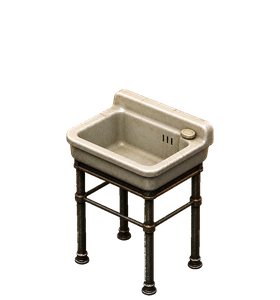
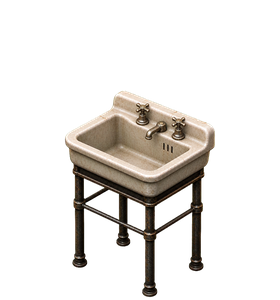
Remaster detective office props for 1940s period accuracy.
Replace anachronistic ashtray filters, packing-peanut trash, red-string case board, and tapless washbasin with Image Generator remasters.

Changed region(s): [[0.2286, 0.3, 0.7714, 0.99]]

diff --git a/ArtSource/Processing/process_office_1940s_period_fix_v01.py b/ArtSource/Processing/process_office_1940s_period_fix_v01.py
@@ -1,0 +1,162 @@
+"""Key 1940s period-correct office prop remasters into runtime sprites.
+
+Fixes anachronisms found in the detective office prop pass:
+  - desk ashtray: unfiltered cigarette stubs (no cork/filter tips)
+  - waiting ashtray: derived cool recolor of the desk ashtray
+  - wastebasket: crumpled paper only (no packing peanuts)
+  - case board: pinned photos/notes without red-string web
+  - washbasin: period dual cross-handle taps on the backsplash
+
+Usage:
+    python3 ArtSource/Processing/process_office_1940s_period_fix_v01.py
+"""
+
+from __future__ import annotations
+
+from pathlib import Path
+
+import numpy as np
+from PIL import Image
+
+ROOT = Path(__file__).resolve().parents[2]
+RUNTIME = ROOT / "RainShadow Shared/Resources/Art/Props/Office"
+GEN = ROOT / "ArtSource/Generated/Office/Props"
+DESK_ITEMS = GEN / "DeskItems"
+ASSETS = Path.home() / ".cursor/projects/Users-laurensvanoorschot-Desktop-RainShadow/assets"
+
+# (asset master, retained chroma name, runtime name, canvas, target content h)
+JOBS = (
+    (
+        "office_desk_ashtray_1940s_chroma_v05.png",
+        "office_desk_ashtray_1940s_chroma_v05.png",
+        "office_desk_ashtray.png",
+        (115, 85),
+        73,
+        DESK_ITEMS,
+    ),
+    (
+        "office_wastebasket_1940s_chroma_v03.png",
+        "office_wastebasket_1940s_chroma_v03.png",
+        "office_wastebasket.png",
+        (256, 256),
+        None,
+        GEN,
+    ),
+    (
+        "office_case_board_1940s_chroma_v02.png",
+        "office_case_board_1940s_chroma_v02.png",
+        "office_case_board.png",
+        (320, 280),
+        None,
+        GEN,
+    ),
+    (
+        "office_personal_washbasin_1940s_chroma_v02.png",
+        "office_personal_washbasin_1940s_chroma_v02.png",
+        "office_personal_washbasin.png",
+        (280, 300),
+        210,
+        GEN,
+    ),
+)
+
+
+def key_chroma(path: Path, spill: float = 1.0) -> np.ndarray:
+    rgb = np.asarray(Image.open(path).convert("RGB")).astype(np.float32)
+    r, g, b = rgb[..., 0], rgb[..., 1], rgb[..., 2]
+    greenness = g - np.maximum(r, b)
+    alpha = np.clip(1.0 - (greenness - 8.0) / 46.0, 0.0, 1.0)
+    ceiling = np.maximum(r, b) + 6.0
+    over = np.maximum(g - ceiling, 0.0) * spill
+    out = rgb.copy()
+    out[..., 1] = g - over
+    return np.dstack([out, alpha * 255.0])
+
+
+def trim(rgba: np.ndarray, pad: int = 4, thresh: float = 24.0) -> np.ndarray:
+    ys, xs = np.where(rgba[..., 3] > thresh)
+    y0, y1 = max(ys.min() - pad, 0), min(ys.max() + 1 + pad, rgba.shape[0])
+    x0, x1 = max(xs.min() - pad, 0), min(xs.max() + 1 + pad, rgba.shape[1])
+    return rgba[y0:y1, x0:x1]
+
+
+def opaque_content_height(rgba: np.ndarray, thresh: float = 40.0) -> int:
+    ys, _ = np.where(rgba[..., 3] > thresh)
+    if len(ys) == 0:
+        return 0
+    return int(ys.max() - ys.min() + 1)
+
+
+def fit_into_canvas(
+    rgba: np.ndarray,
+    canvas: tuple[int, int],
+    target_content_h: int | None = None,
+) -> Image.Image:
+    cw, ch = canvas
+    image = Image.fromarray(np.clip(rgba, 0, 255).astype(np.uint8), "RGBA")
+    if image.width == 0 or image.height == 0:
+        return Image.new("RGBA", canvas, (0, 0, 0, 0))
+    src_h = opaque_content_height(rgba) or image.height
+    if target_content_h and src_h > 0:
+        scale = (target_content_h / src_h) * 0.98
+        scale = min(scale, (cw * 0.94) / image.width, (ch * 0.94) / image.height)
+    else:
+        scale = min(cw / image.width, ch / image.height) * 0.94
+    nw = max(1, int(round(image.width * scale)))
+    nh = max(1, int(round(image.height * scale)))
+    resized = image.resize((nw, nh), Image.Resampling.LANCZOS)
+    out = Image.new("RGBA", canvas, (0, 0, 0, 0))
+    x = (cw - nw) // 2
+    y = max(0, min(ch - nh, ch - nh - 2))
+    out.alpha_composite(resized, (x, y))
+    return out
+
+
+def derive_waiting_ashtray(desk: Image.Image) -> Image.Image:
+    arr = np.array(desk.convert("RGBA"), dtype=np.float32)
+    arr[:, :, 0] = np.clip(arr[:, :, 0] * 0.92, 0, 255)
+    arr[:, :, 2] = np.clip(arr[:, :, 2] * 1.08, 0, 255)
+    return Image.fromarray(arr.astype(np.uint8), "RGBA")
+
+
+def main() -> None:
+    RUNTIME.mkdir(parents=True, exist_ok=True)
+    GEN.mkdir(parents=True, exist_ok=True)
+    DESK_ITEMS.mkdir(parents=True, exist_ok=True)
+
+    desk_runtime: Image.Image | None = None
+    for asset_name, chroma_name, runtime_name, canvas, target_h, retain_dir in JOBS:
+        src = ASSETS / asset_name
+        if not src.exists():
+            raise FileNotFoundError(src)
+        retain_dir.mkdir(parents=True, exist_ok=True)
+        chroma_dest = retain_dir / chroma_name
+        chroma_dest.write_bytes(src.read_bytes())
+
+        rgba = trim(key_chroma(chroma_dest))
+        rgba_master = Image.fromarray(np.clip(rgba, 0, 255).astype(np.uint8), "RGBA")
+        rgba_name = runtime_name.replace(".png", "_1940s_rgba_v01.png")
+        if runtime_name == "office_desk_ashtray.png":
+            rgba_master.save(DESK_ITEMS / "office_desk_ashtray_rgba_v03.png")
+        else:
+            rgba_master.save(retain_dir / rgba_name)
+
+        out = fit_into_canvas(rgba, canvas, target_content_h=target_h)
+        out.save(RUNTIME / runtime_name)
+        a = np.asarray(out)[:, :, 3]
+        print(
+            f"wrote {runtime_name:36s} size={out.size} "
+            f"opaque={(a > 20).sum():,} content_h={opaque_content_height(np.asarray(out))}"
+        )
+        if runtime_name == "office_desk_ashtray.png":
+            desk_runtime = out
+
+    assert desk_runtime is not None
+    waiting = derive_waiting_ashtray(desk_runtime)
+    waiting.save(RUNTIME / "office_waiting_ashtray.png")
+    waiting.save(GEN / "office_waiting_ashtray_rgba_v02.png")
+    print(f"wrote {'office_waiting_ashtray.png':36s} size={waiting.size} (derived)")
+
+
+if __name__ == "__main__":
+    main()

diff --git a/ArtSource/Prompts/GenerationLog.md b/ArtSource/Prompts/GenerationLog.md
@@ -48,6 +48,7 @@ All prompts use the supplied Baldur's Gate-era screenshots as style-analysis ref
 | Wastebasket V2 solo | Cursor Image Generator `office_wastebasket_solo_chroma_v02.png` | `Generated/Office/Props/office_wastebasket_solo_chroma_v02.png` plus RGBA V2 | `Props/Office/office_wastebasket.png` | Dented painted metal 1940s office bin (noir period read); clutter processor prefers solo over sheet cell. |
 | Worn rug V2 | Cursor Image Generator `office_worn_rug_chroma_v02.png` | `Generated/Office/Props/office_worn_rug_chroma_v02.png` plus RGBA V2 master | `Props/Office/office_worn_rug.png`, 1024×768 | Larger low-contrast client meeting pad; tobacco/oxblood; no baked contact shadow (`Prompts/office_worn_rug_v02.md`). |
 | 3-zone office fill V1 | Cursor Image Generator sheets A/B/C + light overlays | `Generated/Office/Props/office_zone_fill_sheet_{a,b,c}_chroma_v01.png`, `office_zone_light_overlays_v01.png`, per-prop RGBA | Matching `Props/Office/office_*.png` via `process_office_zone_fill_v01.py` | Image Generator masters locked to furniture/clutter style; supersedes earlier Pillow placeholders (`Prompts/office_zone_fill_v01.md`). |
+| 1940s period-fix V1 | Cursor Image Generator ashtray/wastebasket/case board/washbasin remasters | `Generated/Office/Props/*_1940s_chroma_v0*.png` plus DeskItems ashtray V3 RGBA | `office_desk_ashtray`, `office_waiting_ashtray`, `office_wastebasket`, `office_case_board`, `office_personal_washbasin` | Unfiltered stubs; paper-only bin; no red-string board; washbasin dual taps (`Prompts/office_1940s_period_fix_v01.md`; `process_office_1940s_period_fix_v01.py`). |
 | Personal corner + internal door V1 | Cursor Image Generator solo chroma plates | `Generated/Office/Props/office_personal_*_solo_chroma_v0*.png`, `office_internal_door_leaf_solo_chroma_v02.png` plus RGBA masters | `Props/Office/office_personal_{sideboard,fan,washbasin,glass}.png`, `office_internal_door_leaf.png`; suite plate `office_suite_architecture.png` | Pass B finals for partitioned suite; door glass blanked in process; agency lettering is code (`Prompts/office_personal_corner_v01.md`). |
 | Partition plate V1 (authored + mask) | Shell-matched continuous plate via `process_office_partition_plate_v01.py` (IG master optional) | `Generated/Office/Props/office_partition_wall.png`, `office_partition_cutaway_mask.png`, `office_partition_wall_cutaway.png`, `office_partition_opening.json` | Same under `Props/Office/`; leaf from opening metrics | LEGACY — superseded by suite plate; kept for `RAINSHADOW_LEGACY_PARTITION=1` (`Prompts/office_partition_plate_v01.md`). |
 | Suite plate Stage 1 (architecture) | Cursor Image Generator `office_suite_plate_v01_gen.png` | `Generated/Office/suite_plate_v01/office_suite_plate_v01_gen.png` + registration lock | `Areas/DetectiveOffice/office_suite_plate.png`, 4096×2304 | One empty architecture plate: shell + partition + painted cutaway; no furniture/leaves (`Prompts/office_suite_plate_v01.md`; `process_office_suite_plate_v01.py`). |

diff --git a/ArtSource/Prompts/office_1940s_period_fix_v01.md b/ArtSource/Prompts/office_1940s_period_fix_v01.md
@@ -1,0 +1,49 @@
+# Office 1940s period-fix props V1
+
+- Generated: 2026-07-29
+- Mode: built-in Image Generator (edit/reference) + Python normalize
+- Script: `ArtSource/Processing/process_office_1940s_period_fix_v01.py`
+
+## Why
+
+Runtime office props were period-checked against a 1940s private-eye suite.
+Four anachronisms were remastered:
+
+| Prop | Problem | Fix |
+|---|---|---|
+| `office_desk_ashtray` | Orange cork/filter-tip butts (mid-1950s+) | Unfiltered crushed white paper stubs |
+| `office_waiting_ashtray` | Same (derived from desk) | Re-derived cool recolor of new desk ashtray |
+| `office_wastebasket` | Styrofoam packing-peanut-like junk (1960s+) | Crumpled paper + torn envelope only |
+| `office_case_board` | Red-string conspiracy web (modern TV trope) | Pinned photos/notes only, no string |
+| `office_personal_washbasin` | No faucet/taps | Dual cross-handle aged brass taps + spout |
+
+## Retained masters
+
+- `ArtSource/Generated/Office/Props/DeskItems/office_desk_ashtray_1940s_chroma_v05.png`
+- `ArtSource/Generated/Office/Props/office_wastebasket_1940s_chroma_v03.png`
+- `ArtSource/Generated/Office/Props/office_case_board_1940s_chroma_v02.png`
+- `ArtSource/Generated/Office/Props/office_personal_washbasin_1940s_chroma_v02.png`
+
+## Runtime canvases
+
+| ID | Canvas | Content height |
+|---|---:|---:|
+| `office_desk_ashtray` | 115×85 | 73 |
+| `office_waiting_ashtray` | 115×85 | derived |
+| `office_wastebasket` | 256×256 | native fit |
+| `office_case_board` | 320×280 | native fit |
+| `office_personal_washbasin` | 280×300 | 210 |
+
+## Generation notes
+
+Prompts locked to existing runtime props as style references, flat `#00FF00`
+chroma, late-1990s pre-rendered isometric CRPG materials, and explicit 1940s
+material constraints (no plastic, no filter tips, no red yarn, period plumbing).
+
+## Acceptance
+
+- No orange/cork filter tips in either ashtray.
+- Wastebasket contains only paper/envelope clutter.
+- Case board has no connecting string/yarn.
+- Washbasin shows dual taps on the backsplash.
+- Projection/scale matches prior runtime canvases.
